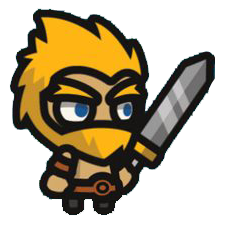
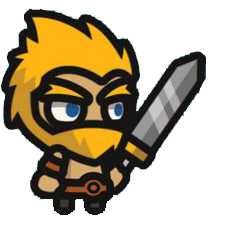
add warrior attack

diff --git a/client/src/components/Objects/Character.js b/client/src/components/Objects/Character.js
@@ -1,9 +1,8 @@
 import {gsap} from 'gsap'
-import wizard from '../../img/wizard.png'
 import {useState, useEffect} from 'react'
-import {Character} from './styles'
+import {StyledImg} from './styles'
 
-export default function Wizard({name}) {
+export default function Character({name, src}) {
     const [position, setPosition] = useState(0)
     const [speed, setSpeed] = useState(20)
 
@@ -13,12 +12,14 @@ export default function Wizard({name}) {
 
     const handleOnKeyDown = e => {
         if (e.code === 'ArrowRight') {
+            gsap.set(`#${name}`, {scaleX: 1})
             setPosition(prev => {
                 const bound = window.innerWidth / 2 - document.querySelector(`#${name}`).clientWidth
                 if (prev > bound - speed) return bound
                 else return prev + speed
             })
         } else if (e.code === 'ArrowLeft') {
+            gsap.set(`#${name}`, {scaleX: -1})
             setPosition(prev => {
                 if (prev < speed) return 0
                 else return prev - speed
@@ -26,6 +27,7 @@ export default function Wizard({name}) {
         }
     }
 
-    return <Character key={name} id={name} tabIndex="0" onKeyDown={handleOnKeyDown} src={wizard} alt={name} />
+    return <StyledImg id={name} tabIndex="0" onKeyDown={handleOnKeyDown} src={src} alt={name} />
 }
+
 

diff --git a/client/src/components/Objects/index.js b/client/src/components/Objects/index.js
@@ -1,8 +1,10 @@
 import {useState, useEffect} from "react"
 import {objectDeclarations} from '../../js/parse'
 import {Container} from "./styles"
-import Warrior from "./Warrior"
-import Wizard from "./Wizard"
+import Character from "./Character"
+import warrior from '../../img/warrior.png'
+import wizard from '../../img/wizard.png'
+
 
 function Objects({setOutputHandler}) {
     const [characters, setCharacters] = useState([])
@@ -14,12 +16,12 @@ function Objects({setOutputHandler}) {
             if (name.includes('warrior')) {
                 setCharacters(prev => [
                     ...prev,
-                    <Warrior name={name} />
+                    <Character key={name} name={name} src={warrior} />
                 ])
             } else if (name.includes('wizard')) {
                 setCharacters(prev => [
                     ...prev,
-                    <Wizard name={name} />
+                    <Character key={name} name={name} src={wizard} />
                 ])
             }
         }

diff --git a/client/src/components/Objects/styles.js b/client/src/components/Objects/styles.js
@@ -8,9 +8,9 @@ export const Container = styled.div`
     background-position: center;
 `
 
-export const Character = styled.img`
+export const StyledImg = styled.img`
     position: absolute;
-    aspect-ratio: 1/1;
     height: 20%;
-    bottom: 22%
+    bottom: 22%;
+    transform-origin: 30% 50%;
 `
